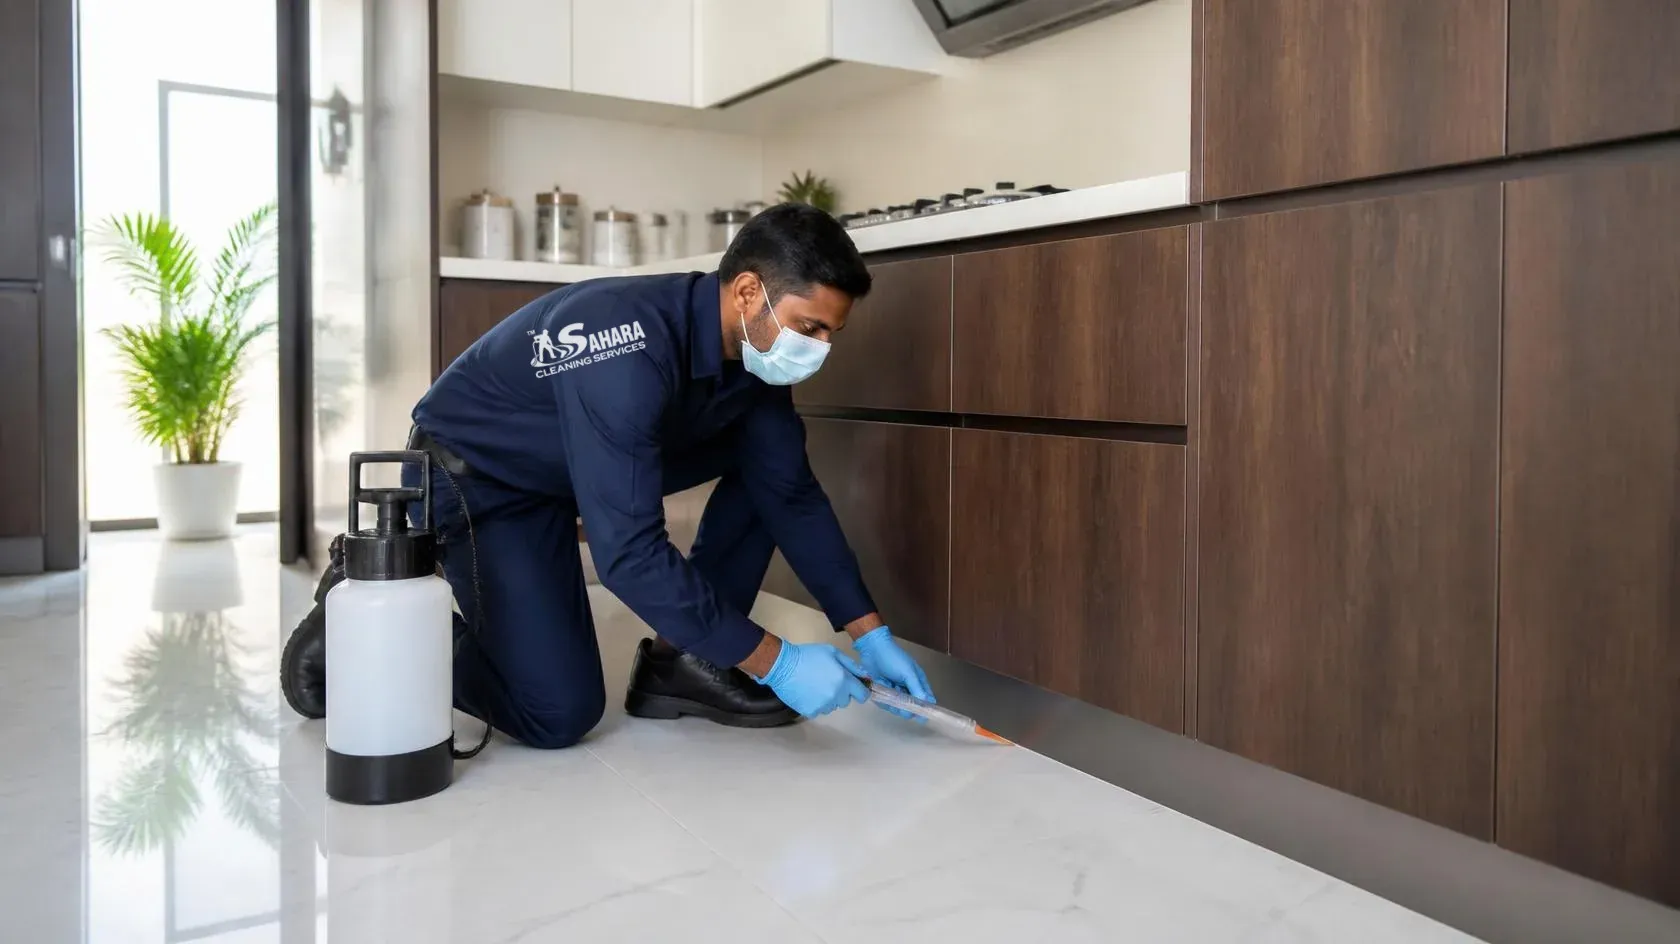
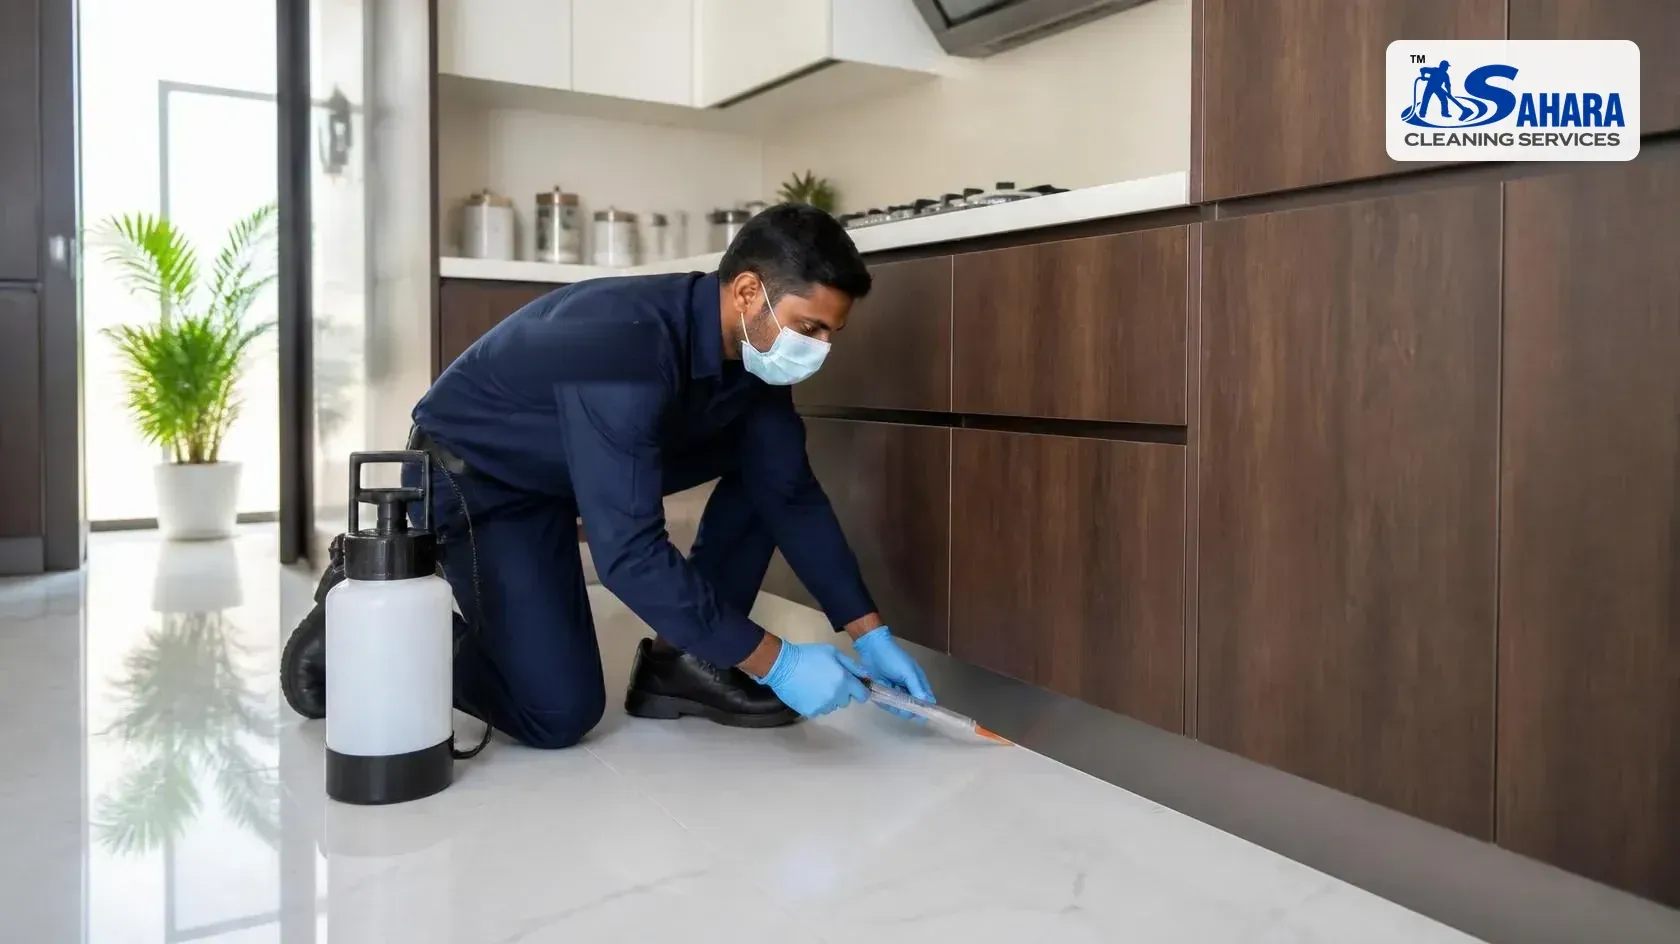
feat(public): MRP strikethrough + savings badge and summary breakdown; pest hero without shoulder emblem
Savings show only when the owner-set MRP is above the price paid. Pest hero: shoulder emblem removed, logo plate top-right.

Changed region(s): [[0.8048, 0.0307, 0.9905, 0.1843], [0.3095, 0.3379, 0.4024, 0.4301]]

diff --git a/src/components/public/booking-wizard.tsx b/src/components/public/booking-wizard.tsx
@@ -1,5 +1,6 @@
 "use client";
 
+import { savingsOf, savingsLabel } from "@/lib/savings";
 import { useEffect, useMemo, useState, useTransition } from "react";
 import { Building2, Bug, Check, CheckCircle2, ChevronDown, Clock, Home, Loader2, LocateFixed, Paintbrush, Wallet, X } from "lucide-react";
 import { publicBookLead } from "@/server/actions/public-booking";
@@ -34,7 +35,7 @@ export type QuotePrefill = {
 };
 
 type Category = "HOME" | "COMMERCIAL" | "PEST" | "PAINTING";
-type Line = { label: string; amount: number | null; note?: string };
+type Line = { label: string; amount: number | null; note?: string; /** Owner-set MRP of the package (struck through only when above the price paid). */ mrp?: number };
 
 // Owner 2026-10-05: Property Type + 4 packages. Fixed prices exist only for
 // 1–4 BHK × Premium / Platinum; every other combination is "price on confirmation".
@@ -289,7 +290,7 @@ export function BookingWizard({
     const out: Line[] = [];
     if (category === "HOME" && homeType === "FULL" && bhk && pkg) {
       const item = items.find((p) => p.bhk === bhk && p.variant === pkg);
-      out.push(item ? { label: `${bhk} ${pkg} Deep Cleaning`, amount: unit(item) } : { label: `${bhk} ${pkg} Deep Cleaning`, amount: null, note: "Price on confirmation" });
+      out.push(item ? { label: `${bhk} ${pkg} Deep Cleaning`, amount: unit(item), mrp: item.mrp } : { label: `${bhk} ${pkg} Deep Cleaning`, amount: null, note: "Price on confirmation" });
       // Add-ons on top of the full-home package (same priced catalogue items).
       for (const it of ADDON_ITEMS) {
         const n = qty[it.contentId] ?? 0;
@@ -758,9 +759,10 @@ export function BookingWizard({
                                     return (
                                       <span className="shrink-0 text-right leading-tight">
                                         <span className="block text-[10px] font-semibold text-[#0a2540]/55">{fest != null ? "Festival price" : "Price"}</span>
-                                        {/* Struck-through MRP only when the owner set one above the price (Settings → Pricing). */}
-                                        {fest == null && it.mrp != null && it.mrp > it.price! && <span className="block text-[11px] text-[#0a2540]/45 line-through">{inr(it.mrp)}</span>}
+                                        {/* Struck-through MRP only when the owner set one above the price paid (Settings → Pricing). */}
+                                        {savingsOf(it.mrp, fest ?? it.price) && <span className="block text-[11px] text-[#0a2540]/45 line-through">{inr(it.mrp!)}</span>}
                                         <span className="block text-base font-extrabold text-primary">{inr(fest ?? it.price!)}</span>
+                                        {(() => { const sv = savingsOf(it.mrp, fest ?? it.price); return sv ? <span className="mt-0.5 block rounded bg-emerald-100 px-1.5 py-0.5 text-[10px] font-bold text-emerald-800">🎉 {savingsLabel(sv)}</span> : null; })()}
                                       </span>
                                     );
                                   })()
@@ -998,6 +1000,15 @@ export function BookingWizard({
                 <span className="shrink-0 font-semibold">{l.amount != null ? inr(l.amount) : <span className="text-xs text-[#0a2540]/60">{l.note}</span>}</span>
               </p>
             ))}
+            {(() => {
+              const d = lines.find((l) => savingsOf(l.mrp, l.amount));
+              const sv = d ? savingsOf(d.mrp, d.amount) : null;
+              return d && sv ? (
+                <p className="mt-1 rounded-lg bg-emerald-50 px-2 py-1.5 text-xs font-semibold text-emerald-800">
+                  Original Price: <span className="line-through">{inr(d.mrp!)}</span> | {priceMode === "FESTIVAL" ? "Festival" : "Your"} Price: {inr(d.amount!)} | {savingsLabel(sv)}
+                </p>
+              ) : null;
+            })()}
             {pricedTotal > 0 && (
               <p className="mt-1.5 flex justify-between border-t border-[#0a2540]/10 pt-1.5 font-extrabold">
                 <span>Total</span>

diff --git a/tests/savings.test.ts b/tests/savings.test.ts
@@ -1,0 +1,26 @@
+import { test } from "node:test";
+import assert from "node:assert/strict";
+import { savingsOf, savingsLabel } from "../src/lib/savings";
+
+test("owner's six festival examples calculate the stated saving and percentage", () => {
+  const rows: [number, number, number, number][] = [
+    [6999, 5499, 1500, 21],
+    [7999, 6499, 1500, 19], // 18.75% rounds to 19 (the brief said 18)
+    [8499, 6999, 1500, 18],
+    [9499, 7999, 1500, 16],
+    [9999, 7999, 2000, 20],
+    [11999, 9499, 2500, 21],
+  ];
+  for (const [mrp, price, save, pct] of rows) assert.deepEqual(savingsOf(mrp, price), { save, pct });
+});
+
+test("no saving unless MRP is genuinely above the price", () => {
+  assert.equal(savingsOf(5000, 5000), null);
+  assert.equal(savingsOf(4000, 5000), null);
+  assert.equal(savingsOf(undefined, 5000), null);
+  assert.equal(savingsOf(6000, null), null);
+});
+
+test("label format", () => {
+  assert.equal(savingsLabel({ save: 1500, pct: 21 }), "You Save ₹1,500 (21% OFF)");
+});

diff --git a/src/lib/savings.ts b/src/lib/savings.ts
@@ -1,0 +1,14 @@
+// Genuine-discount maths for struck-through prices. A saving is shown only when the owner-set MRP
+// (Settings → Pricing) is above the price the customer actually pays; otherwise nothing is shown.
+
+export type Savings = { save: number; pct: number };
+
+export function savingsOf(mrp: number | null | undefined, price: number | null | undefined): Savings | null {
+  if (mrp == null || price == null || !(mrp > price) || price <= 0) return null;
+  return { save: mrp - price, pct: Math.round(((mrp - price) / mrp) * 100) };
+}
+
+/** "You Save ₹1,500 (21% OFF)". */
+export function savingsLabel(s: Savings): string {
+  return `You Save ₹${s.save.toLocaleString("en-IN")} (${s.pct}% OFF)`;
+}
